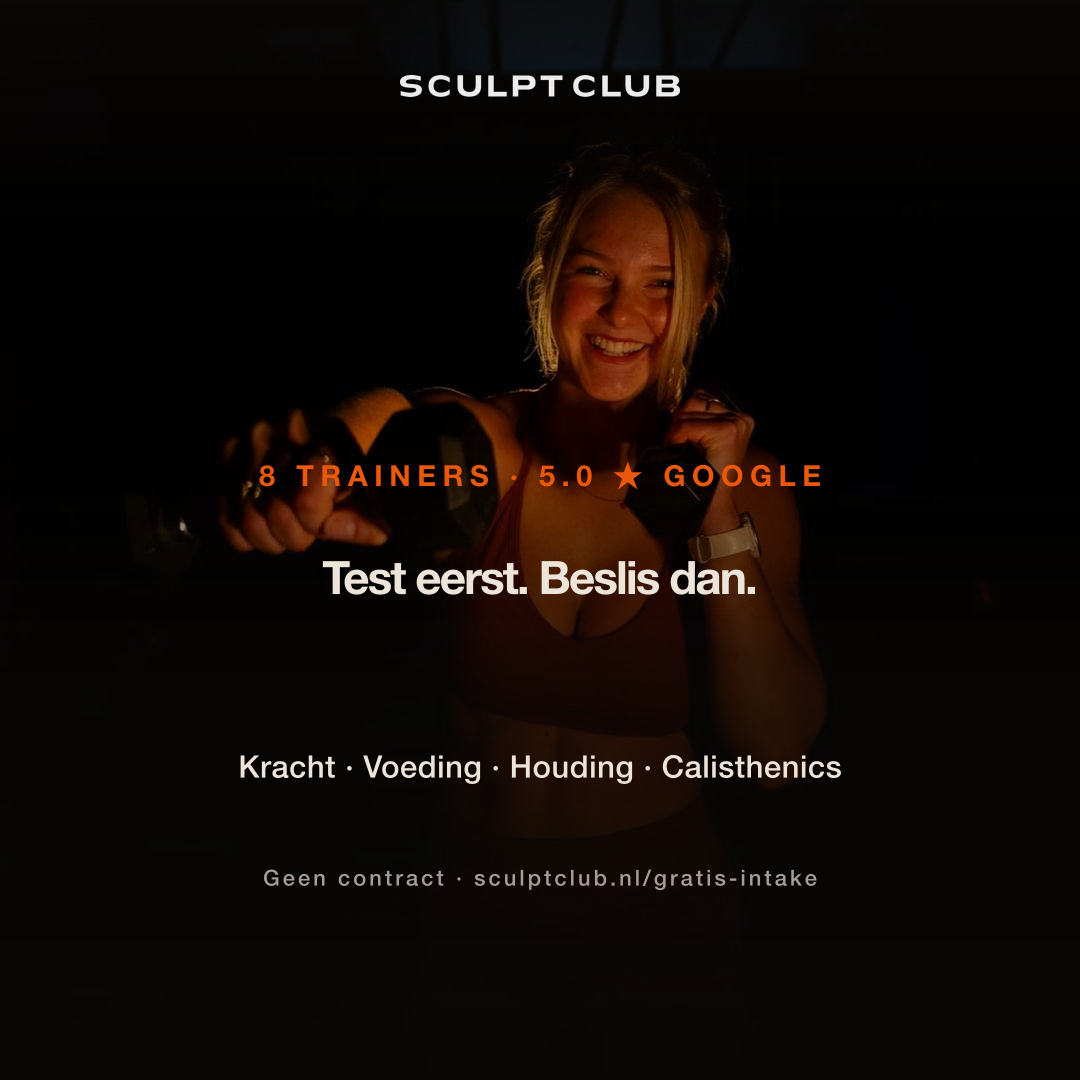
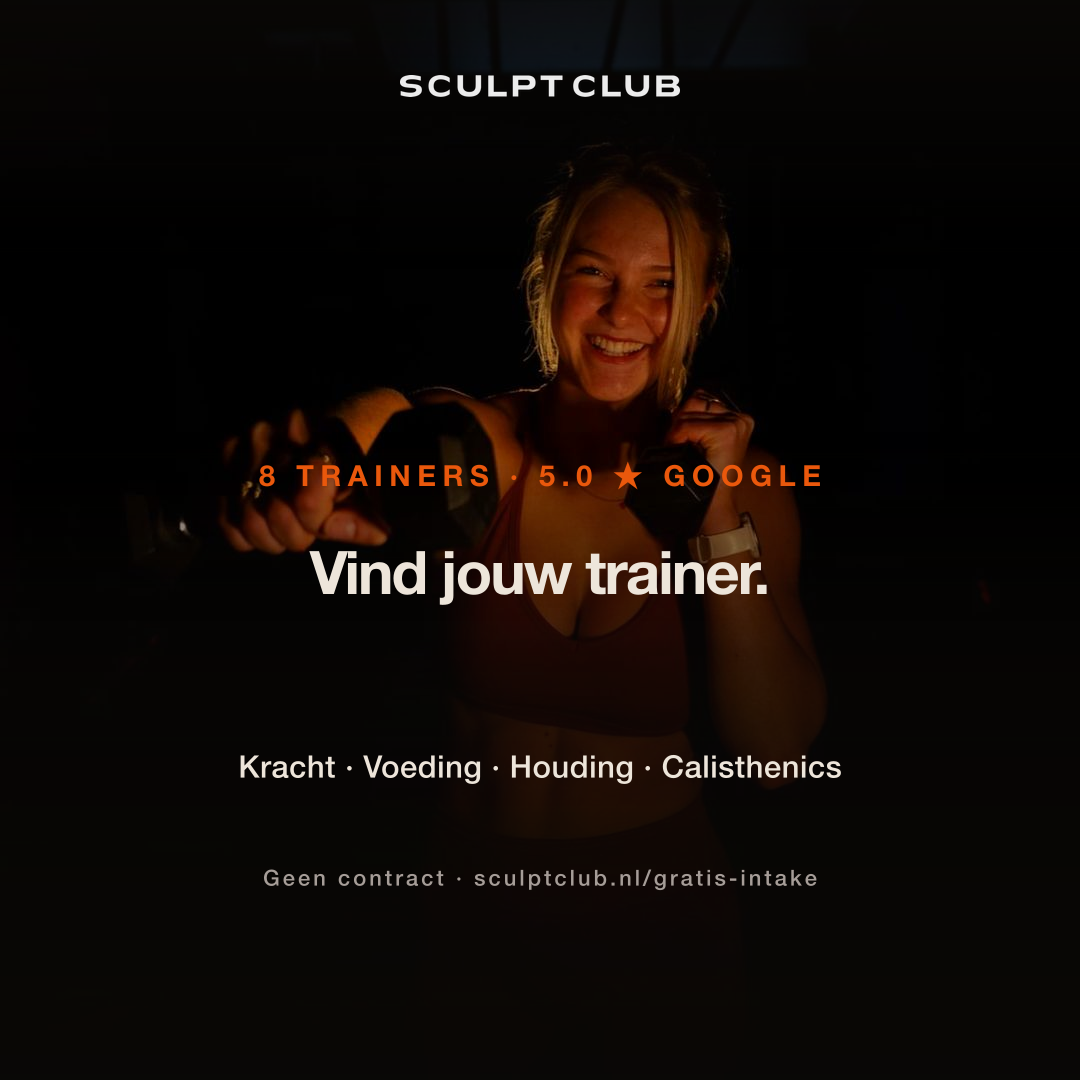
refactor(intake-pitch): slide-2 hero "Vind jouw trainer."
Operator iteration on slide-2 hero copy. Previous "Test eerst. Beslis dan."
was native-Dutch-OK but reads as commitment-fear-deflection. New phrasing
flips the frame from defense to invitation:

  Was: "Test eerst. Beslis dan."  (anti-pressure → implies pressure existed)
  Now: "Vind jouw trainer."        (invitation + compounds with funnel URL)

Why "Vind jouw trainer." is the right swap:
- Exact match to the trainer-hub URL slug /vind-jouw-personal-trainer
  → free brand-recognition compounding when visitor sees same phrase on
    site after tapping link-in-bio
- Eyebrow says "8 TRAINERS · 5.0 ★ GOOGLE" → hero "find yours" → USP
  shows specialties → clean read flow
- Premium boutique register: pull (invitation), not push-back-against
  (anti-pressure). Aldi defends against pressure; Equinox just invites.
- Native Dutch imperative + possessive, 17 chars (heroScale 0.85 = bold
  and confident without overflow)

Files changed:
- scripts/build-tiktok-post.mjs · POSTS["intake-pitch-001"][1].hero
- public/social/intake-pitch-001/tiktok-no-pressure.png (regenerated)
- public/social/intake-pitch-001/instagram-no-pressure.png (regenerated)
- public/social/intake-pitch-001/index.html · slidesData[1].title

Other 5 slides + captions + sound recs unchanged (didn't reference the
old hero copy).

Changed region(s): [[0.275, 0.4889, 0.7028, 0.5806]]

diff --git a/public/social/intake-pitch-001/index.html b/public/social/intake-pitch-001/index.html
@@ -430,7 +430,7 @@ function renderCopySection(platform) {
 // Slide names match the keys in scripts/build-tiktok-post.mjs POSTS["intake-pitch-001"].
 const slidesData = [
   { name: "main-offer",  label: "1", title: "Privé · 1-op-1 · 45 min" },
-  { name: "no-pressure", label: "2", title: "Test eerst, beslis dan · 8 trainers" },
+  { name: "no-pressure", label: "2", title: "Vind jouw trainer · 8 trainers" },
   { name: "location",    label: "3", title: "Egelantiersgracht 424 · Jordaan" }
 ];
 
